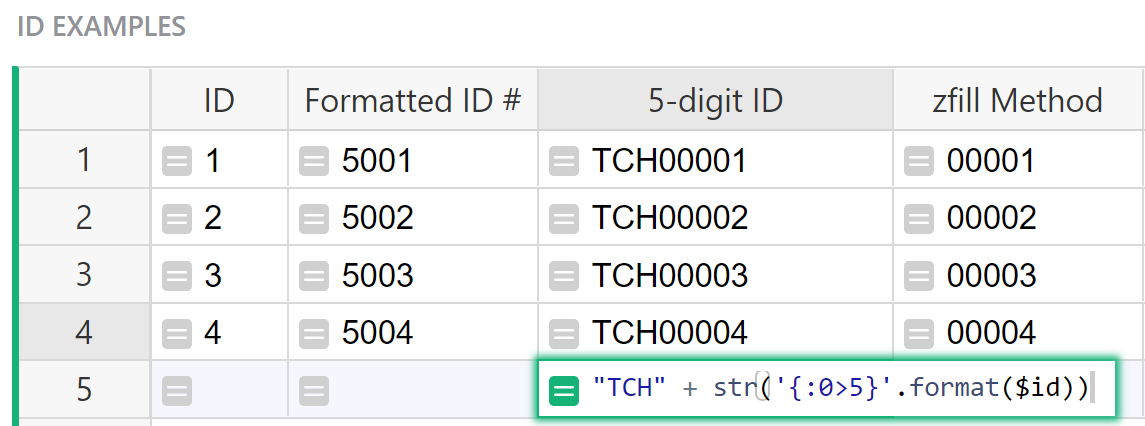
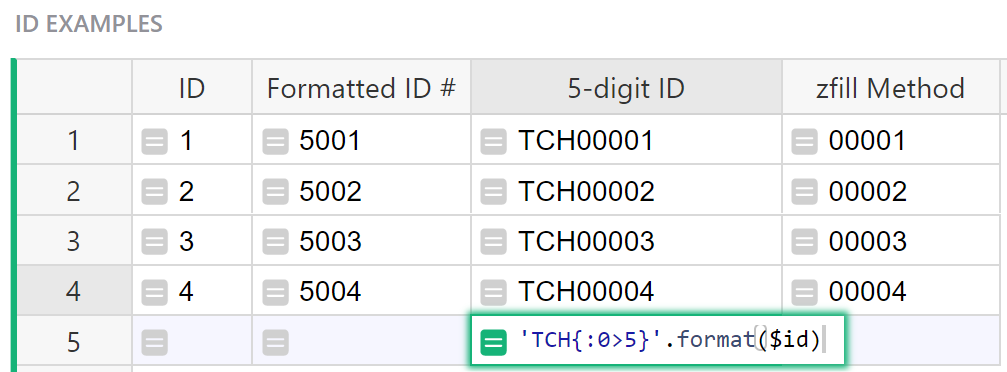
made changes per comments

diff --git a/help/formula_cheat_sheet.md b/help/formula_cheat_sheet.md
@@ -54,7 +54,7 @@ The formula used in the 'Spots Left' column of the Classes table is:
 ```
 max($Max_Students - $Count, 0) or "Full"
 ```
-Here, the max value is determined from either `$Max_Students - $Count` or `0`. If `$Max_Students - $Count = 0`, then no max can be determined and the value returned is "Full".
+Here, the max value is determined from either `$Max_Students - $Count` or `0`. If `$Max_Students - $Count = 0`, then no max can be determined and the value returned is "Full". When `$Count` is less than `$Max_Students`, the difference `$Max_Students - $Count` is positive and represents the spots left in the class. When `$Count` exceeds `$Max_Students`, then the class is full or oversubscribed, and `$Max_Students - $Count` is negative. The maximum of a negative number and 0 will be 0, so `max($Max_Students - $Count, 0)` is 0. This represents a full class. The addition of `or "Full"` is applied when the value is falsy, which means that a 0 is replaced with the text `"Full"`.
 
 **Min**: Contacts table of the [Lightweight CRM](https://templates.getgrist.com/doc/lightweight-crm) template.
 
@@ -70,7 +70,7 @@ Let's break this down.
 `Interactions.lookupRecords(Contact=$id, Type="To-Do")` finds all records in the Interactions table where 
 the Contacts match and the Type is To-Do. This returns a list of records that we assign to the variable `items`. 
 
-Next, all Dates assigned to the records in our item list are evaluated to find the minimum date. This is the record that is returned. So, we see the date of the task that is due the soonest. 
+Next, all Dates assigned to the records in our item list are evaluated to find the minimum date. This is the value that is returned. So, we see the date of the task that is due the soonest. 
 
 If there are no items in the list, nothing is returned and the field is left blank.
 </details>
@@ -79,7 +79,7 @@ If there are no items in the list, nothing is returned and the field is left bla
 <span></span><section class="cheat-sheet">
 #### Sum
 
-Use the [SUM()](https://support.getgrist.com/functions/#sum) function when you want to sum values across a row. If you want to sum values in a column, use [Summary Tables](https://support.getgrist.com/summary-tables/).
+Use the [SUM()](https://support.getgrist.com/functions/#sum) function when you want to sum a list of values available within a cell. If you want to sum values in a column, use [Summary Tables](https://support.getgrist.com/summary-tables/).
 
 <span></span><details><summary>
 #### Example of SUM()
@@ -109,16 +109,96 @@ SUM(Incoming_Order_Line_Items.lookupRecords(SKU=$id).Received_Qty)
 ```
 We use the [lookupRecords](https://support.getgrist.com/functions/#lookuprecords) function to find all records in the Incoming Order Line Items table where the SKU matches the SKU in this row then pull the value in the Received Qty column for each of those records. We use SUM() to find the sum of those values.
 
-The Qty on Order and Sold columns of the All Products table are also great examples of the SUM() function.
+The Qty on Order and Sold columns of the [All Products](https://templates.getgrist.com/sXsBGDTKau1F/Inventory-Manager/p/1) table are also great examples of the SUM() function.
 
 **Check out another example in our Community Forum:** [Creating a Sum of Net and Gross profit from multiple tables](https://community.getgrist.com/t/creating-a-sum-of-net-and-gross-profit-from-multiple-tables/668)
 </details>
 </section>
 
 <span></span><section class="cheat-sheet">
+#### Comparing for equality: == and !=
+
+When comparing for equality in Python, we use `==` for 'equals' and `!=` for 'does not equal'. If `$A = 2` and `$B = 3`, the formula `"True" if $A == $B else "False"` would return `False`. Alternatively, the formula `"True" if $A != $B else "False"` would return `True`. 
+
+<span></span><details><summary>
+#### Examples using `==`
+</summary>
+
+**[Inventory Manager](https://templates.getgrist.com/sXsBGDTKau1F/Inventory-Manager/p/10) template**
+
+<span class="screenshot-large">*![equality-received-qty](images/formula-cheat-sheet/equality-received-qty.png)*</span>
+
+The formula used in the Received Qty column of the Incoming Order Line Items table is:
+```
+if $Order_Number.Status =='Received':
+  return $Qty
+else:
+  return None
+```
+The Order Number column of the Incoming Order Line Items Table is a reference column that points to the Order Number column of the Incoming Orders table. `$Order_Number.Status` uses dot notation to pull the value from the Status column of the Incoming Orders table. If the value in this column is equal to `Received`, the value from the Qty column will be returned.  If the value is not equal to `Received`, nothing is returned.
+
+<span class="screenshot-large">*![equality-date-received](images/formula-cheat-sheet/equality-date-received.png)*</span>
+
+The formula used in the Date Received column of the [Create New Order](https://templates.getgrist.com/sXsBGDTKau1F/Inventory-Manager/p/16#a1.s35.r11.c82) table is:
+```
+if $Status == "Received":
+  return NOW()
+```
+This is a [trigger formula](https://support.getgrist.com/formulas/#trigger-formulas) that is triggered when a change is made to the Status column. If the value in the Status column is equal to `Received`, the current date is returned. If the values are not equal, nothing is returned.
+
+<span class="screenshot-large">*![equality-outstanding-balanced](images/formula-cheat-sheet/equality-outstanding-balance.png)*</span>
+
+The formula used in the Outstanding Balance column of the [Outgoing Orders](https://templates.getgrist.com/sXsBGDTKau1F/Inventory-Manager/p/18#a1.s39.r1.c236) table is:
+```
+if $Financial_Status == "Unpaid":
+  return $Total
+if $Financial_Status == "Paid in Full":
+  return "0.00"
+if $Financial_Status == "Partial Payment":
+  return $Total - $Amount_Paid
+```
+Here, we have three different arguments based on the value in the Financial Status column. If the value in the Financial Status column is `Unpaid`, then the value from the Total column is returned here. If Financial Status is `Paid in Full` then the balance that should be returned is `0.00`. If the value in the Financial Status column is `Partial Payment`, the formula calculates the difference between the amounts in the Total and Amount Paid columns and returns that value.
+</details>
+<span></span><details><summary>
+#### Examples using `!=`
+</summary>
+
+**[Project Management](https://docs.getgrist.com/6S68aHxVeGJu/Project-Management-copy/p/9) template**
+
+<span class="screenshot-large">*![inequality-missed-deadline](images/formula-cheat-sheet/inequality-missed-deadline.png)*</span>
+
+The formula used in the Missed Deadline column of the Missed Deadline table is:
+```
+if TODAY()> $Due_Date and $Status != "Completed":
+  return True
+else:
+  return False
+```
+If the current date is greater than the date given in the Due Date column **and** the value in the Status column is not equal to `Completed`, the formula returns `True`. If either of these statements is false, the formula returns `False`.
+
+**[Restaurant Custom Orders](https://templates.getgrist.com/e4gEm7dt4cgB/Restaurant-Custom-Orders) template**
+
+<span class="screenshot-large">*![inequality-restaurant-bom](images/formula-cheat-sheet/inequality-restaurant-bom.png)*</span>
+
+The trigger formula used in the BOM # column of the Bill of Materials table is:
+```
+MAX(o.BOM_ for o in Bill_Of_Materials.all if o.id != $id) + 1
+```
+First, we'll walk through the formula inside the parenthesis then work outwards.
+
+Here, `o` is a variable representing each record in our table. `o.BOM_` represents the BOM # for each record and `o.id` represents the row ID for each record. This is a `for` loop that makes a list of the BOM # for each record in the table Bill of Materials when the record ID does not equal the ID of this row.
+
+`MAX()` finds the maximum BOM # in the list then `+ 1` to get our final value. 
+
+This is a trigger formula that only applies to new records. When a new record is created, the formula finds the highest BOM # in the table then adds 1 so we have a unique BOM # for the new record.
+
+</details>
+</section>
+
+<span></span><section class="cheat-sheet">
 #### Comparing Values: < , > , <= , >=
 
-Allows you to compare numerical values. If Sales = `$1200` and Running Cost = `$1650`, `"Gains" if Sales > Running Cost else "Loss"` would return `Loss`.
+Allows you to compare numerical values. If Sales = `1200` and Running_Cost = `1650`, `"Gains" if $Sales > $Running_Cost else "Loss"` would return `Loss`.
 
 <span></span><details><summary>
 #### Examples comparing values
@@ -128,34 +208,23 @@ Allows you to compare numerical values. If Sales = `$1200` and Running Cost = `$
 
 <span class="screenshot-large">*![comparing-values-stock-alert](images/formula-cheat-sheet/comparing-values-stock-alert.png)*</span>
 
-The formula used here is:
+The formula used in the Stock Alert column of the All Products table is:
 ```
 if $In_Stock + $QTY_on_Order > 5:
   return "In Stock"
 if $In_Stock + $QTY_on_Order > 0:
   return "Low Stock"
-if $In_Stock + $QTY_on_Order <= 0:
+else:
   return "OUT OF STOCK"
 ```
-Here, we have three different **if-return** statements; if `x` is true, return `some_value`. Once a statement is true and a value is returned, the formula stops. 
+Here, we have two different **if-return** statements; if `x` is true, return `some_value`. Once a statement is true and a value is returned, the formula stops. If both are false, `OUT OF STOCK` is returned.
 
 First, if the value in the In Stock column plus the value in the Qty On Order column are greater than 5, return "In Stock". 
 
 Next, if the value in the In Stock column plus the value in the Qty On Order column are greater than 0, return "Low Stock". It's implied that the value is less than or equal to 5 because the first statement would have to be false for this to be evaluated. 
 
-Last, if the value in the In Stock column plus the value in the Qty On Order column are less than or equal to 0, return "OUT OF STOCK".
+Last, if all statements are false, return "OUT OF STOCK".
 
-**[Influencer Outreach](https://templates.getgrist.com/qPxe3srL7H28/Influencer-Outreach) template**
-
-<span class="screenshot-large">*![comparing-values-interactions](images/formula-cheat-sheet/comparing-values-interactions.png)*</span>
-
-The formula used in the Interactions? column of the Opportunities table is:
-```
-len(Interactions.lookupRecords(Influencer=$id))>0
-```
-We use the [lookupRecords](https://support.getgrist.com/functions/#lookuprecords) function to find all records in the Interactions table where the Influencer matches the Name in this row.
-
-We use [len()](https://support.getgrist.com/functions/#len) to count the number of records found. If there are more than zero records, the formula is evaluated to be true and the toggle will be toggled on. If there are zero records, the formula is evaluated to be false.
 
 **[Internal Links Tracker for SEO](https://templates.getgrist.com/j9ZH7rPGafbH/Internal-Links-Tracker-for-SEO) template**
 
@@ -169,7 +238,6 @@ We use the [lookupRecords](https://support.getgrist.com/functions/#lookuprecords
 
 We use [len()](https://support.getgrist.com/functions/#len) to count the number of records found. If it's less than 1, the formula is evaluated to be true and the checkbox will be checked. If it's equal to or greater than 1, the formula is evaluated to be false.
 
-The No Internal Links? column of the [Pages Without Links to Other Pages](https://templates.getgrist.com/j9ZH7rPGafbH/Internal-Links-Tracker-for-SEO/p/5#a1.s10.r2.c33) table is another example of comparing values.
 </details>
 </section>
 
@@ -177,11 +245,11 @@ The No Internal Links? column of the [Pages Without Links to Other Pages](https:
 <span></span><section class="cheat-sheet">
 #### Converting from String to Float
 
-**[String](https://www.w3schools.com/python/python_strings.asp)**: A sequence of characters that once defined, cannot be changed. See [Python str() Function](https://www.w3schools.com/python/ref_func_str.asp) for converting a specified value to a string.
-
-**[Integer](https://www.w3schools.com/python/python_numbers.asp)**: A whole number, without decimals. See [Python int() Function](https://www.w3schools.com/python/ref_func_int.asp) for converting a specified value to an integer number.
+**[String](https://www.w3schools.com/python/python_strings.asp)**: A sequence of characters or snippets of text. In code, strings are quoted e.g. `'Hello'` or `"-12"` (those are three characters in quotes, as opposed to a negative number). See [Python str() Function](https://www.w3schools.com/python/ref_func_str.asp) for converting a specified value to a string.
 
 **[Float](https://www.w3schools.com/python/gloss_python_float.asp)**: Real numbers that can store decimal values. Also called floating point number. See [Python float() Function](https://www.w3schools.com/python/ref_func_float.asp) for converting a specified value into a floating point number.
+
+**[Integer](https://www.w3schools.com/python/python_numbers.asp)**: A whole number, without decimals. See [Python int() Function](https://www.w3schools.com/python/ref_func_int.asp) for converting a specified value to an integer number.
 
 <span></span><details><summary>
 #### Example converting a string to a float
@@ -211,6 +279,20 @@ In the first equation, we used our reference list column, Mix Product, as our li
 
 Finally, we use the [join()](https://www.w3schools.com/python/ref_string_join.asp) method to combine our two lists. `' '` is our starting (empty) string. We use Python's [format method](https://www.w3schools.com/python/ref_string_format.asp) to format our string. `{}` is a placeholder for each variable listed in `.format()`. Last, we use Python's [zip() function](https://www.w3schools.com/python/ref_func_zip.asp) to pair the first values from each list together and then pair the second values in each list together. `l` is assigned as our `first` list and `x` is assigned as our `second` list. `l = [Prod A, Prod B]` and `x = [5.0, 10.0]`. Zipping our lists into `'{} {}'.format(first, second)` gives us `Prod A 5.0` in our first iteration and `Prod B 10.0` in our second iteration. Our final return value is `Prod A 5.0 Prod B 10.0`.
 </details>
+
+<span></span><details><summary>
+#### Troubleshooting
+</summary>
+**TypeError: can't multiply sequence by non-int of type 'float'**
+
+if you are trying to use different columns with *numeric* values in a mathematical formula but seeing this error, check the column types for each of the columns used in the formula. All need to be of type numeric.
+
+<span class="screenshot-large">*![column-type-numeric](images/formula-cheat-sheet/column-type-numeric.png)*</span>
+{: .screenshot-half }
+
+[float()](https://docs.python.org/3/library/functions.html#float) is only needed when dealing with alpha-numeric values like we see in the [example](#example-converting-a-string-to-a-float).
+
+</details>
 </section>
 
 
@@ -222,6 +304,16 @@ Specify the number of decimal places to give in a result using the [ROUND()](htt
 <span></span><details><summary>
 #### Example of rounding numbers
 </summary>
+**[Payroll](https://templates.getgrist.com/5pHLanQNThxk/Payroll/p/2) template**
+
+<span class="screenshot-large">*![round-payment](images/formula-cheat-sheet/round-payment.png)*</span>
+
+The formula used in the Payment column is:
+```
+ROUND($Hours*$Per_Hour, 2)
+```
+The [ROUND()](https://support.getgrist.com/functions/#round) function follows the format `ROUND(value, places)` which will round the given value to the number of places specified. Our formula finds the value for `$Hours*$Per_Hour` then rounds this value to `2` decimal places.
+
 **[Mixing Products](https://public.getgrist.com/v4vj2PDZS4jf/Community-665/m/fork)**
 
 <span class="screenshot-large">*![round](images/formula-cheat-sheet/round.png)*</span>
@@ -253,12 +345,12 @@ Finally, we use the [join()](https://www.w3schools.com/python/ref_string_join.as
 
 
 <span></span><section class="cheat-sheet">
-#### Specify Minimum Number of Digits
+#### Formatting numbers with leading zeros
 
-Allows you to specify the minimum number of digits returned in a numerical column by adding leading zeros. If x = 5, `str(x).zfill(3)` or `str('{:0>3}').format(x)` would return `005`.
+Allows you to specify the minimum number of digits returned in a numerical column by adding leading zeros. If x = 5, `str(x).zfill(3)` or `'{:0>3}'.format(x)` would return `005`.
 
 <span></span><details><summary>
-#### Example of Specifying Minimum Number of Digits
+#### Formatting numbers with leading zeros
 </summary>
 
 **Community Example: [Using Row ID](https://public.getgrist.com/p4zvsX9asVCc/2179-Using-id/p/1)**
@@ -267,10 +359,10 @@ Allows you to specify the minimum number of digits returned in a numerical colum
 
 The formula used in the 5-digit ID column of the ID Examples table is:
 ```
-"TCH" + str('{:0>5}'.format($id))
+'TCH{:0>5}'.format($id)
 ```
 
-`'{:0>5}'.format($id)` takes the unique row ID and formats it to be a minimum of 5 digits. `str()` converts this number to a string. We then add this string to our first string `"TCH"` to get our final value. If the `$id` is longer than 5 digits, the formula returns the string unmodified.
+`'{:0>5}'.format($id)` takes the unique row ID and formats it to be a minimum of 5 digits. We then add this to our string `"TCH"` to get our final value. If the `$id` is longer than 5 digits, the formula returns the string unmodified.
 
 We can do the same thing using the [`str.zfill()`](https://docs.python.org/3/library/stdtypes.html#str.zfill) method.
 
@@ -289,7 +381,7 @@ str($id).zfill(5)
 </summary>
 `#TypeError`: can only concatenate str (not "int") to str
 
-If you mean to use the row ID as a character rather than a numerical value, be sure to convert it to string using `str()`.
+If you mean to combine a string and a numerical value, be sure to convert it to string using `str()`.
 
 
 <span class="screenshot-large">*![string-type-error](images/formula-cheat-sheet/string-type-error.png)*</span>
